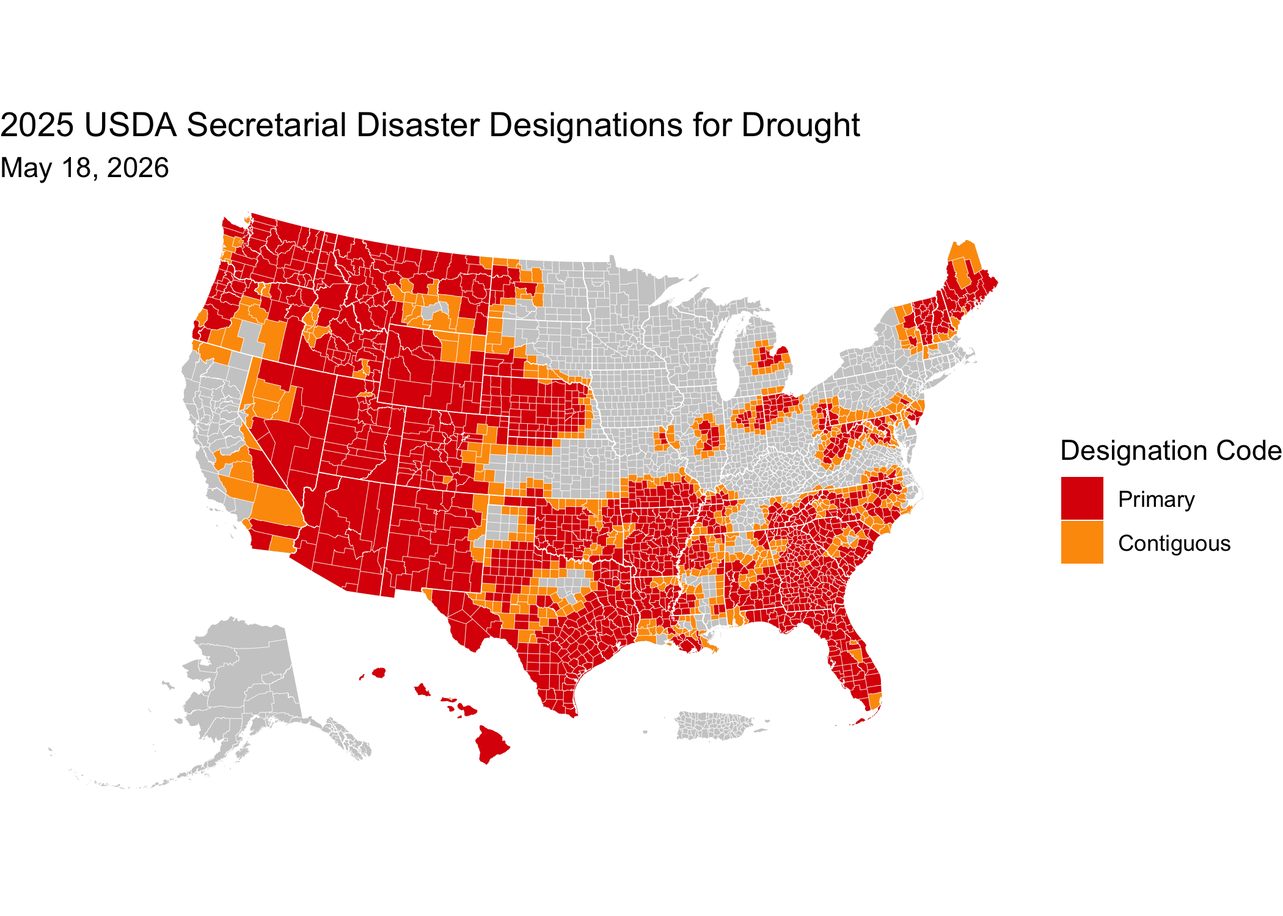
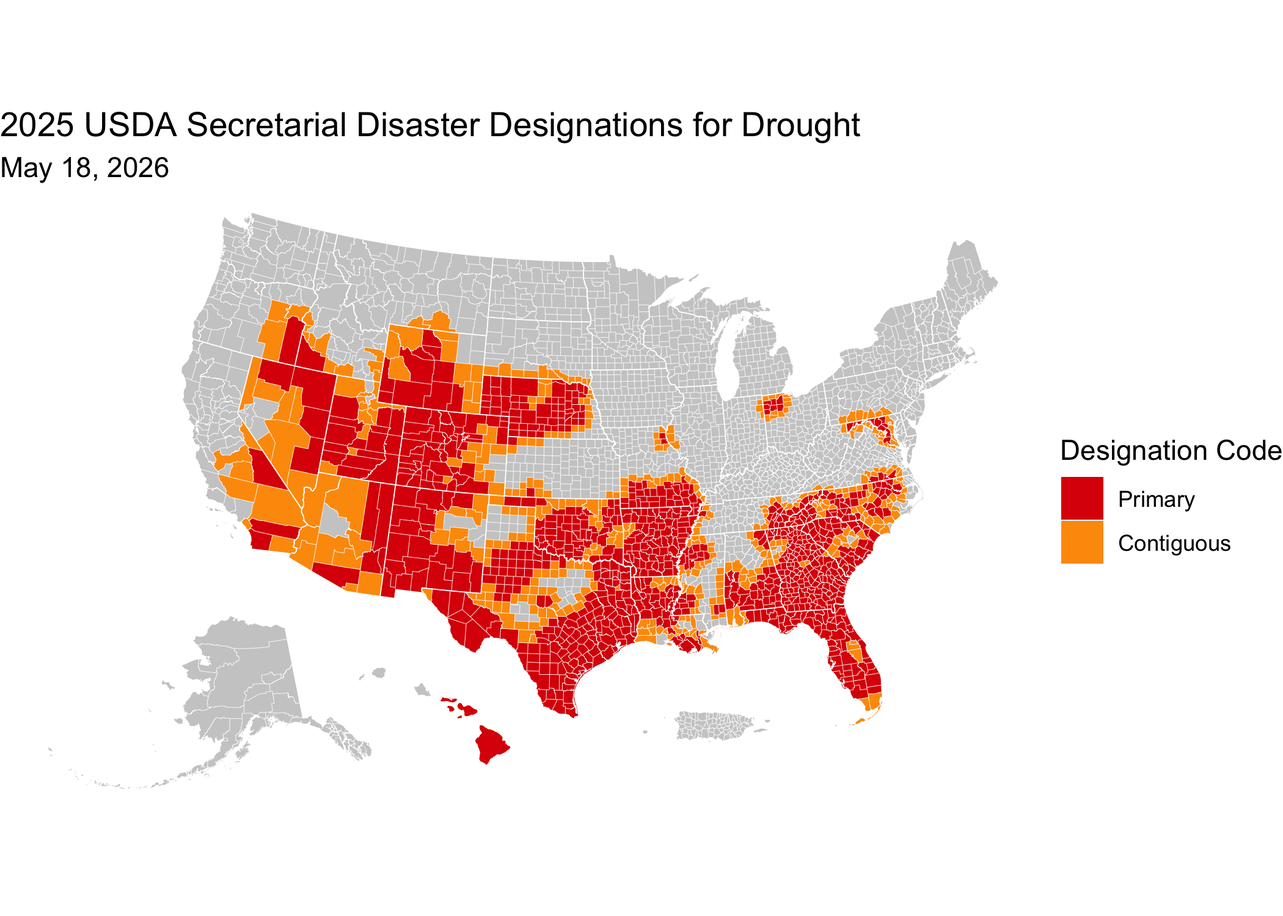
added disaster year

diff --git a/README.md b/README.md
@@ -90,15 +90,14 @@ library(ggplot2) # For plotting
 library(tigris)  # For state boundaries
 library(rmapshaper) # For innerlines function
 
-# Get the 2025 Secretarial disasters for drought
+# Get the 2026 Secretarial disasters for drought
 disasters <-
   # "https://sustainable-fsa.com/fsa-disasters/fsa-disasters.parquet" |>
   "fsa-disasters.parquet" |>
   arrow::read_parquet() |>
   dplyr::filter(`Designation/Declaration Type` == "Secretarial",
                 stringr::str_detect(`Disaster Type`, "DROUGHT"),
-                `Begin Date` >= "2025-01-01",
-                (`End Date` < "2026-01-01") | is.na(`End Date`)) |>
+                `Disaster Year` == 2026) |>
   dplyr::arrange(`Designation Code`) %>%
   dplyr::distinct(FIPS, .keep_all = TRUE)
 
@@ -116,11 +115,7 @@ counties <-
   dplyr::summarise(.groups = "drop") |>
   sf::st_cast("MULTIPOLYGON") |>
   dplyr::mutate(FIPS = paste0(STATEFP, COUNTYFP))
-```
 
-    ##   |                                                                                                                     |                                                                                                             |   0%  |                                                                                                                     |=                                                                                                            |   1%  |                                                                                                                     |==                                                                                                           |   2%  |                                                                                                                     |===                                                                                                          |   2%  |                                                                                                                     |===                                                                                                          |   3%  |                                                                                                                     |====                                                                                                         |   3%  |                                                                                                                     |====                                                                                                         |   4%  |                                                                                                                     |=====                                                                                                        |   4%  |                                                                                                                     |=====                                                                                                        |   5%  |                                                                                                                     |======                                                                                                       |   5%  |                                                                                                                     |======                                                                                                       |   6%  |                                                                                                                     |=======                                                                                                      |   6%  |                                                                                                                     |=======                                                                                                      |   7%  |                                                                                                                     |========                                                                                                     |   7%  |                                                                                                                     |=========                                                                                                    |   8%  |                                                                                                                     |==========                                                                                                   |   9%  |                                                                                                                     |===========                                                                                                  |  10%  |                                                                                                                     |============                                                                                                 |  11%  |                                                                                                                     |=============                                                                                                |  12%  |                                                                                                                     |==============                                                                                               |  13%  |                                                                                                                     |===============                                                                                              |  14%  |                                                                                                                     |================                                                                                             |  15%  |                                                                                                                     |=================                                                                                            |  15%  |                                                                                                                     |=================                                                                                            |  16%  |                                                                                                                     |==================                                                                                           |  17%  |                                                                                                                     |===================                                                                                          |  17%  |                                                                                                                     |===================                                                                                          |  18%  |                                                                                                                     |====================                                                                                         |  18%  |                                                                                                                     |=====================                                                                                        |  19%  |                                                                                                                     |======================                                                                                       |  20%  |                                                                                                                     |======================                                                                                       |  21%  |                                                                                                                     |=======================                                                                                      |  21%  |                                                                                                                     |========================                                                                                     |  22%  |                                                                                                                     |=========================                                                                                    |  23%  |                                                                                                                     |==========================                                                                                   |  24%  |                                                                                                                     |===========================                                                                                  |  25%  |                                                                                                                     |============================                                                                                 |  25%  |                                                                                                                     |============================                                                                                 |  26%  |                                                                                                                     |=============================                                                                                |  27%  |                                                                                                                     |==============================                                                                               |  27%  |                                                                                                                     |==============================                                                                               |  28%  |                                                                                                                     |===============================                                                                              |  28%  |                                                                                                                     |================================                                                                             |  29%  |                                                                                                                     |================================                                                                             |  30%  |                                                                                                                     |=================================                                                                            |  30%  |                                                                                                                     |=================================                                                                            |  31%  |                                                                                                                     |==================================                                                                           |  31%  |                                                                                                                     |===================================                                                                          |  32%  |                                                                                                                     |====================================                                                                         |  33%  |                                                                                                                     |=====================================                                                                        |  34%  |                                                                                                                     |======================================                                                                       |  35%  |                                                                                                                     |=======================================                                                                      |  35%  |                                                                                                                     |=======================================                                                                      |  36%  |                                                                                                                     |========================================                                                                     |  37%  |                                                                                                                     |=========================================                                                                    |  37%  |                                                                                                                     |=========================================                                                                    |  38%  |                                                                                                                     |==========================================                                                                   |  38%  |                                                                                                                     |==========================================                                                                   |  39%  |                                                                                                                     |===========================================                                                                  |  40%  |                                                                                                                     |============================================                                                                 |  40%  |                                                                                                                     |============================================                                                                 |  41%  |                                                                                                                     |=============================================                                                                |  41%  |                                                                                                                     |==============================================                                                               |  42%  |                                                                                                                     |==============================================                                                               |  43%  |                                                                                                                     |===============================================                                                              |  43%  |                                                                                                                     |================================================                                                             |  44%  |                                                                                                                     |=================================================                                                            |  45%  |                                                                                                                     |==================================================                                                           |  45%  |                                                                                                                     |==================================================                                                           |  46%  |                                                                                                                     |===================================================                                                          |  47%  |                                                                                                                     |====================================================                                                         |  48%  |                                                                                                                     |=====================================================                                                        |  48%  |                                                                                                                     |=====================================================                                                        |  49%  |                                                                                                                     |======================================================                                                       |  50%  |                                                                                                                     |=======================================================                                                      |  50%  |                                                                                                                     |=======================================================                                                      |  51%  |                                                                                                                     |========================================================                                                     |  51%  |                                                                                                                     |=========================================================                                                    |  52%  |                                                                                                                     |=========================================================                                                    |  53%  |                                                                                                                     |==========================================================                                                   |  53%  |                                                                                                                     |===========================================================                                                  |  54%  |                                                                                                                     |============================================================                                                 |  55%  |                                                                                                                     |============================================================                                                 |  56%  |                                                                                                                     |=============================================================                                                |  56%  |                                                                                                                     |==============================================================                                               |  57%  |                                                                                                                     |===============================================================                                              |  58%  |                                                                                                                     |================================================================                                             |  58%  |                                                                                                                     |================================================================                                             |  59%  |                                                                                                                     |=================================================================                                            |  60%  |                                                                                                                     |==================================================================                                           |  60%  |                                                                                                                     |==================================================================                                           |  61%  |                                                                                                                     |===================================================================                                          |  61%  |                                                                                                                     |====================================================================                                         |  62%  |                                                                                                                     |====================================================================                                         |  63%  |                                                                                                                     |=====================================================================                                        |  63%  |                                                                                                                     |======================================================================                                       |  64%  |                                                                                                                     |=======================================================================                                      |  65%  |                                                                                                                     |=======================================================================                                      |  66%  |                                                                                                                     |========================================================================                                     |  66%  |                                                                                                                     |=========================================================================                                    |  67%  |                                                                                                                     |==========================================================================                                   |  68%  |                                                                                                                     |===========================================================================                                  |  68%  |                                                                                                                     |===========================================================================                                  |  69%  |                                                                                                                     |============================================================================                                 |  70%  |                                                                                                                     |=============================================================================                                |  70%  |                                                                                                                     |=============================================================================                                |  71%  |                                                                                                                     |==============================================================================                               |  71%  |                                                                                                                     |===============================================================================                              |  72%  |                                                                                                                     |===============================================================================                              |  73%  |                                                                                                                     |================================================================================                             |  73%  |                                                                                                                     |================================================================================                             |  74%  |                                                                                                                     |=================================================================================                            |  74%  |                                                                                                                     |==================================================================================                           |  75%  |                                                                                                                     |==================================================================================                           |  76%  |                                                                                                                     |===================================================================================                          |  76%  |                                                                                                                     |====================================================================================                         |  77%  |                                                                                                                     |=====================================================================================                        |  78%  |                                                                                                                     |======================================================================================                       |  79%  |                                                                                                                     |=======================================================================================                      |  80%  |                                                                                                                     |========================================================================================                     |  80%  |                                                                                                                     |========================================================================================                     |  81%  |                                                                                                                     |=========================================================================================                    |  81%  |                                                                                                                     |=========================================================================================                    |  82%  |                                                                                                                     |==========================================================================================                   |  83%  |                                                                                                                     |===========================================================================================                  |  83%  |                                                                                                                     |===========================================================================================                  |  84%  |                                                                                                                     |============================================================================================                 |  84%  |                                                                                                                     |=============================================================================================                |  85%  |                                                                                                                     |=============================================================================================                |  86%  |                                                                                                                     |==============================================================================================               |  86%  |                                                                                                                     |===============================================================================================              |  87%  |                                                                                                                     |================================================================================================             |  88%  |                                                                                                                     |=================================================================================================            |  89%  |                                                                                                                     |==================================================================================================           |  90%  |                                                                                                                     |===================================================================================================          |  91%  |                                                                                                                     |====================================================================================================         |  92%  |                                                                                                                     |=====================================================================================================        |  93%  |                                                                                                                     |======================================================================================================       |  93%  |                                                                                                                     |======================================================================================================       |  94%  |                                                                                                                     |=======================================================================================================      |  94%  |                                                                                                                     |========================================================================================================     |  95%  |                                                                                                                     |========================================================================================================     |  96%  |                                                                                                                     |=========================================================================================================    |  96%  |                                                                                                                     |==========================================================================================================   |  97%  |                                                                                                                     |===========================================================================================================  |  98%  |                                                                                                                     |===========================================================================================================  |  99%  |                                                                                                                     |============================================================================================================ |  99%  |                                                                                                                     |=============================================================================================================| 100%
-
-``` r
 disasters_counties <-
   disasters |>
   dplyr::left_join(counties) |>
